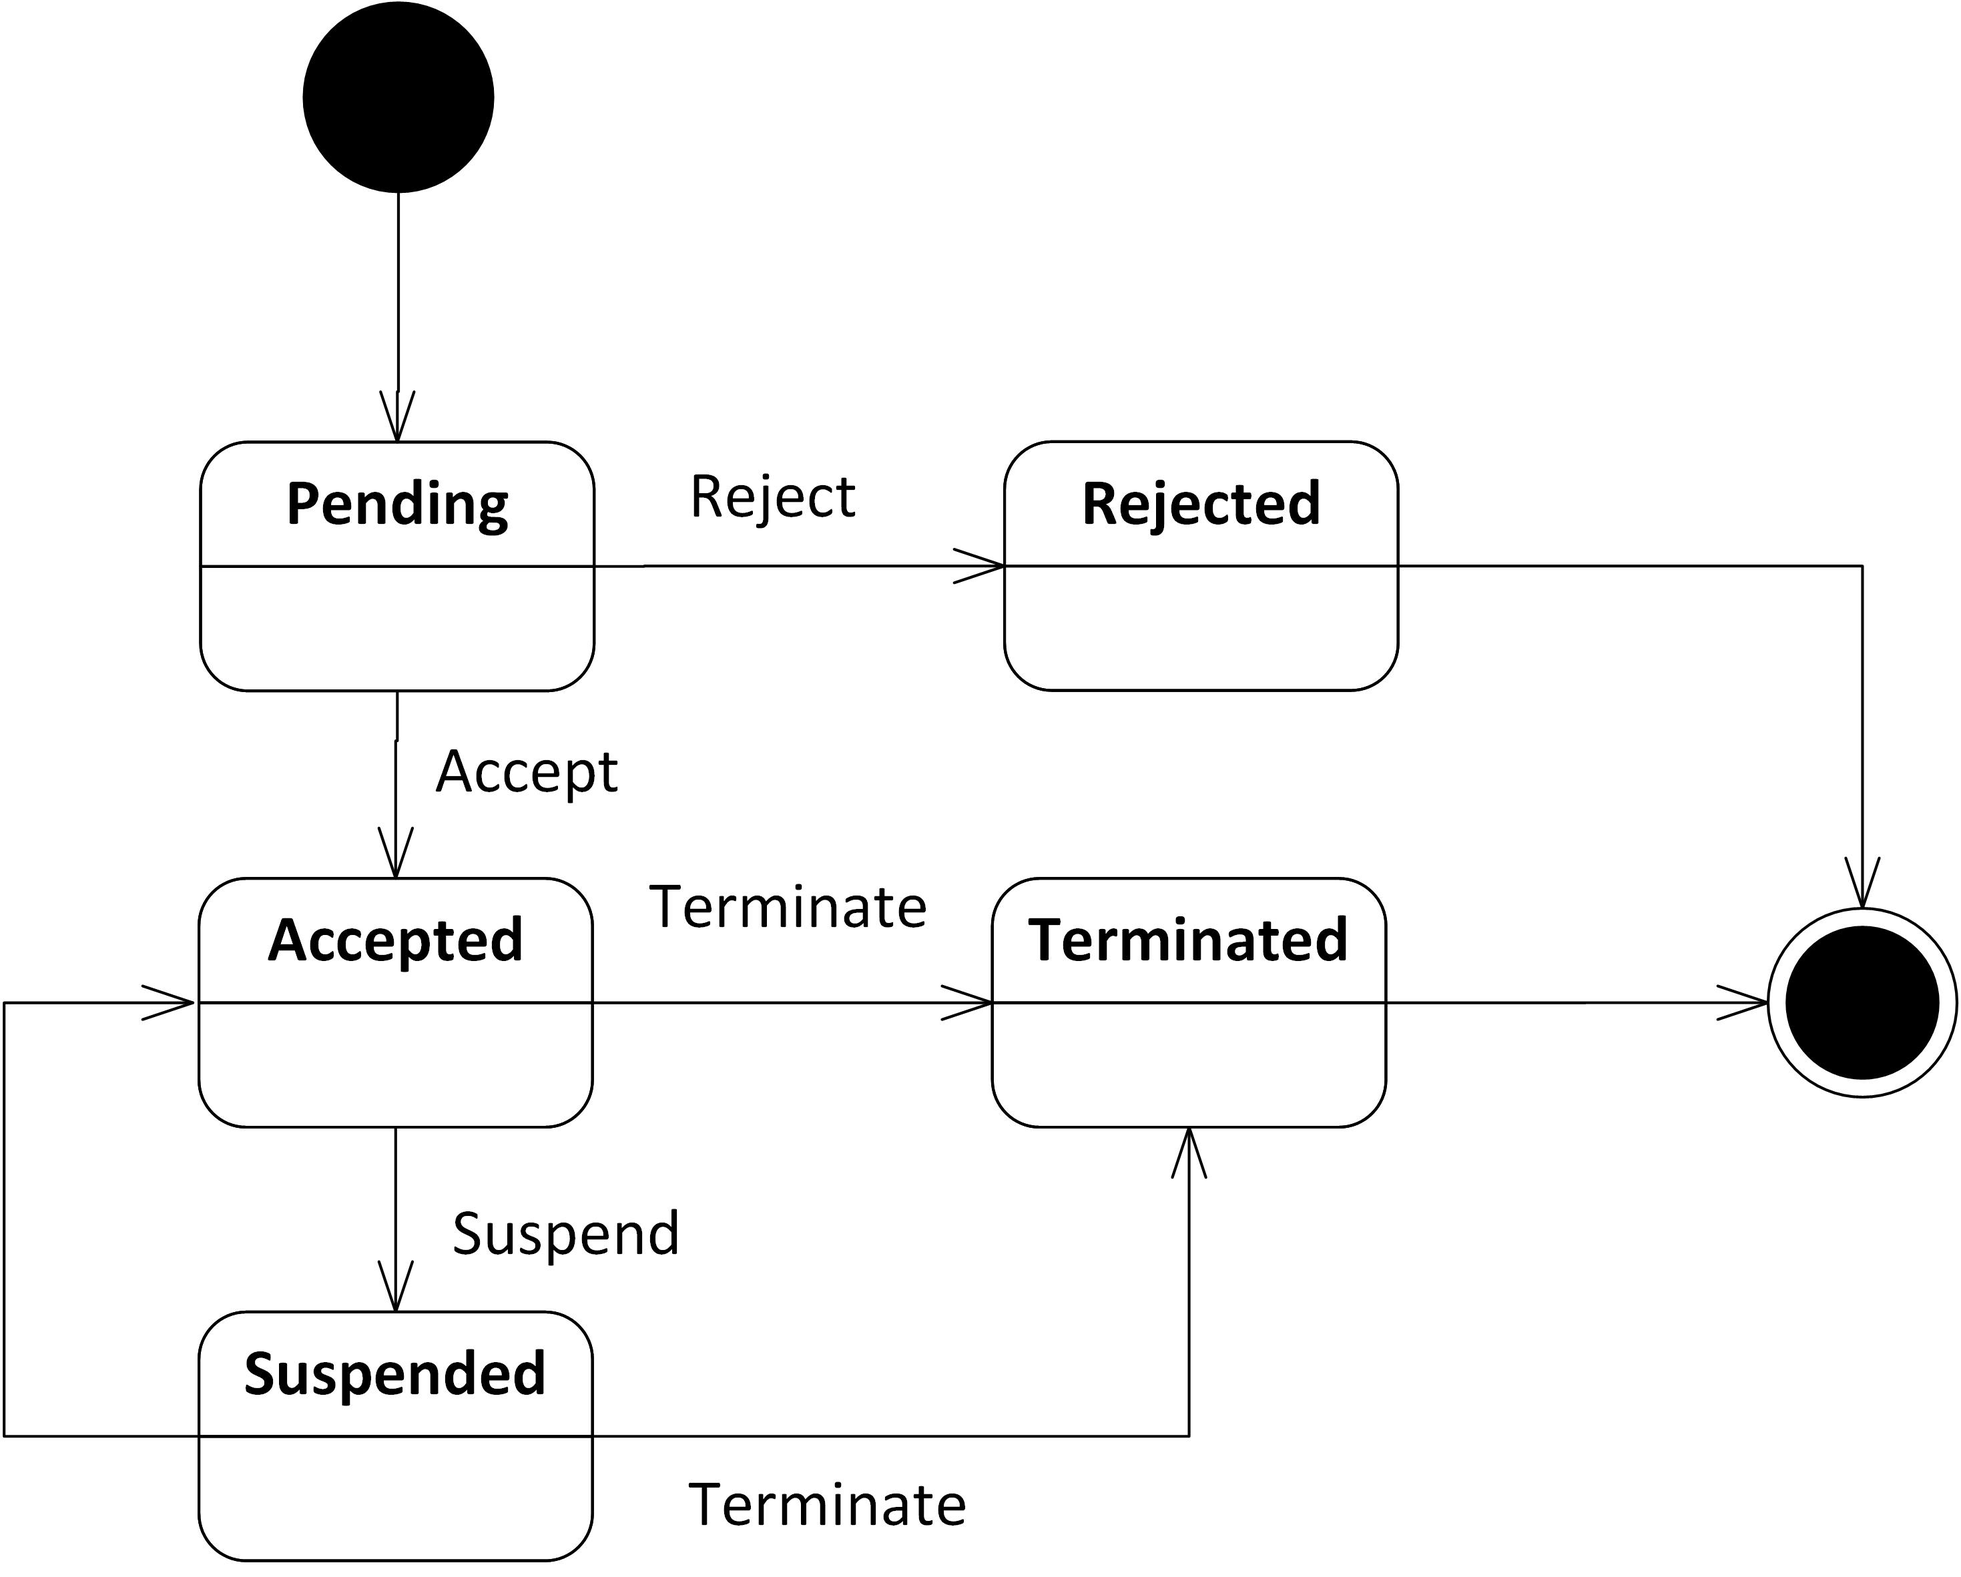
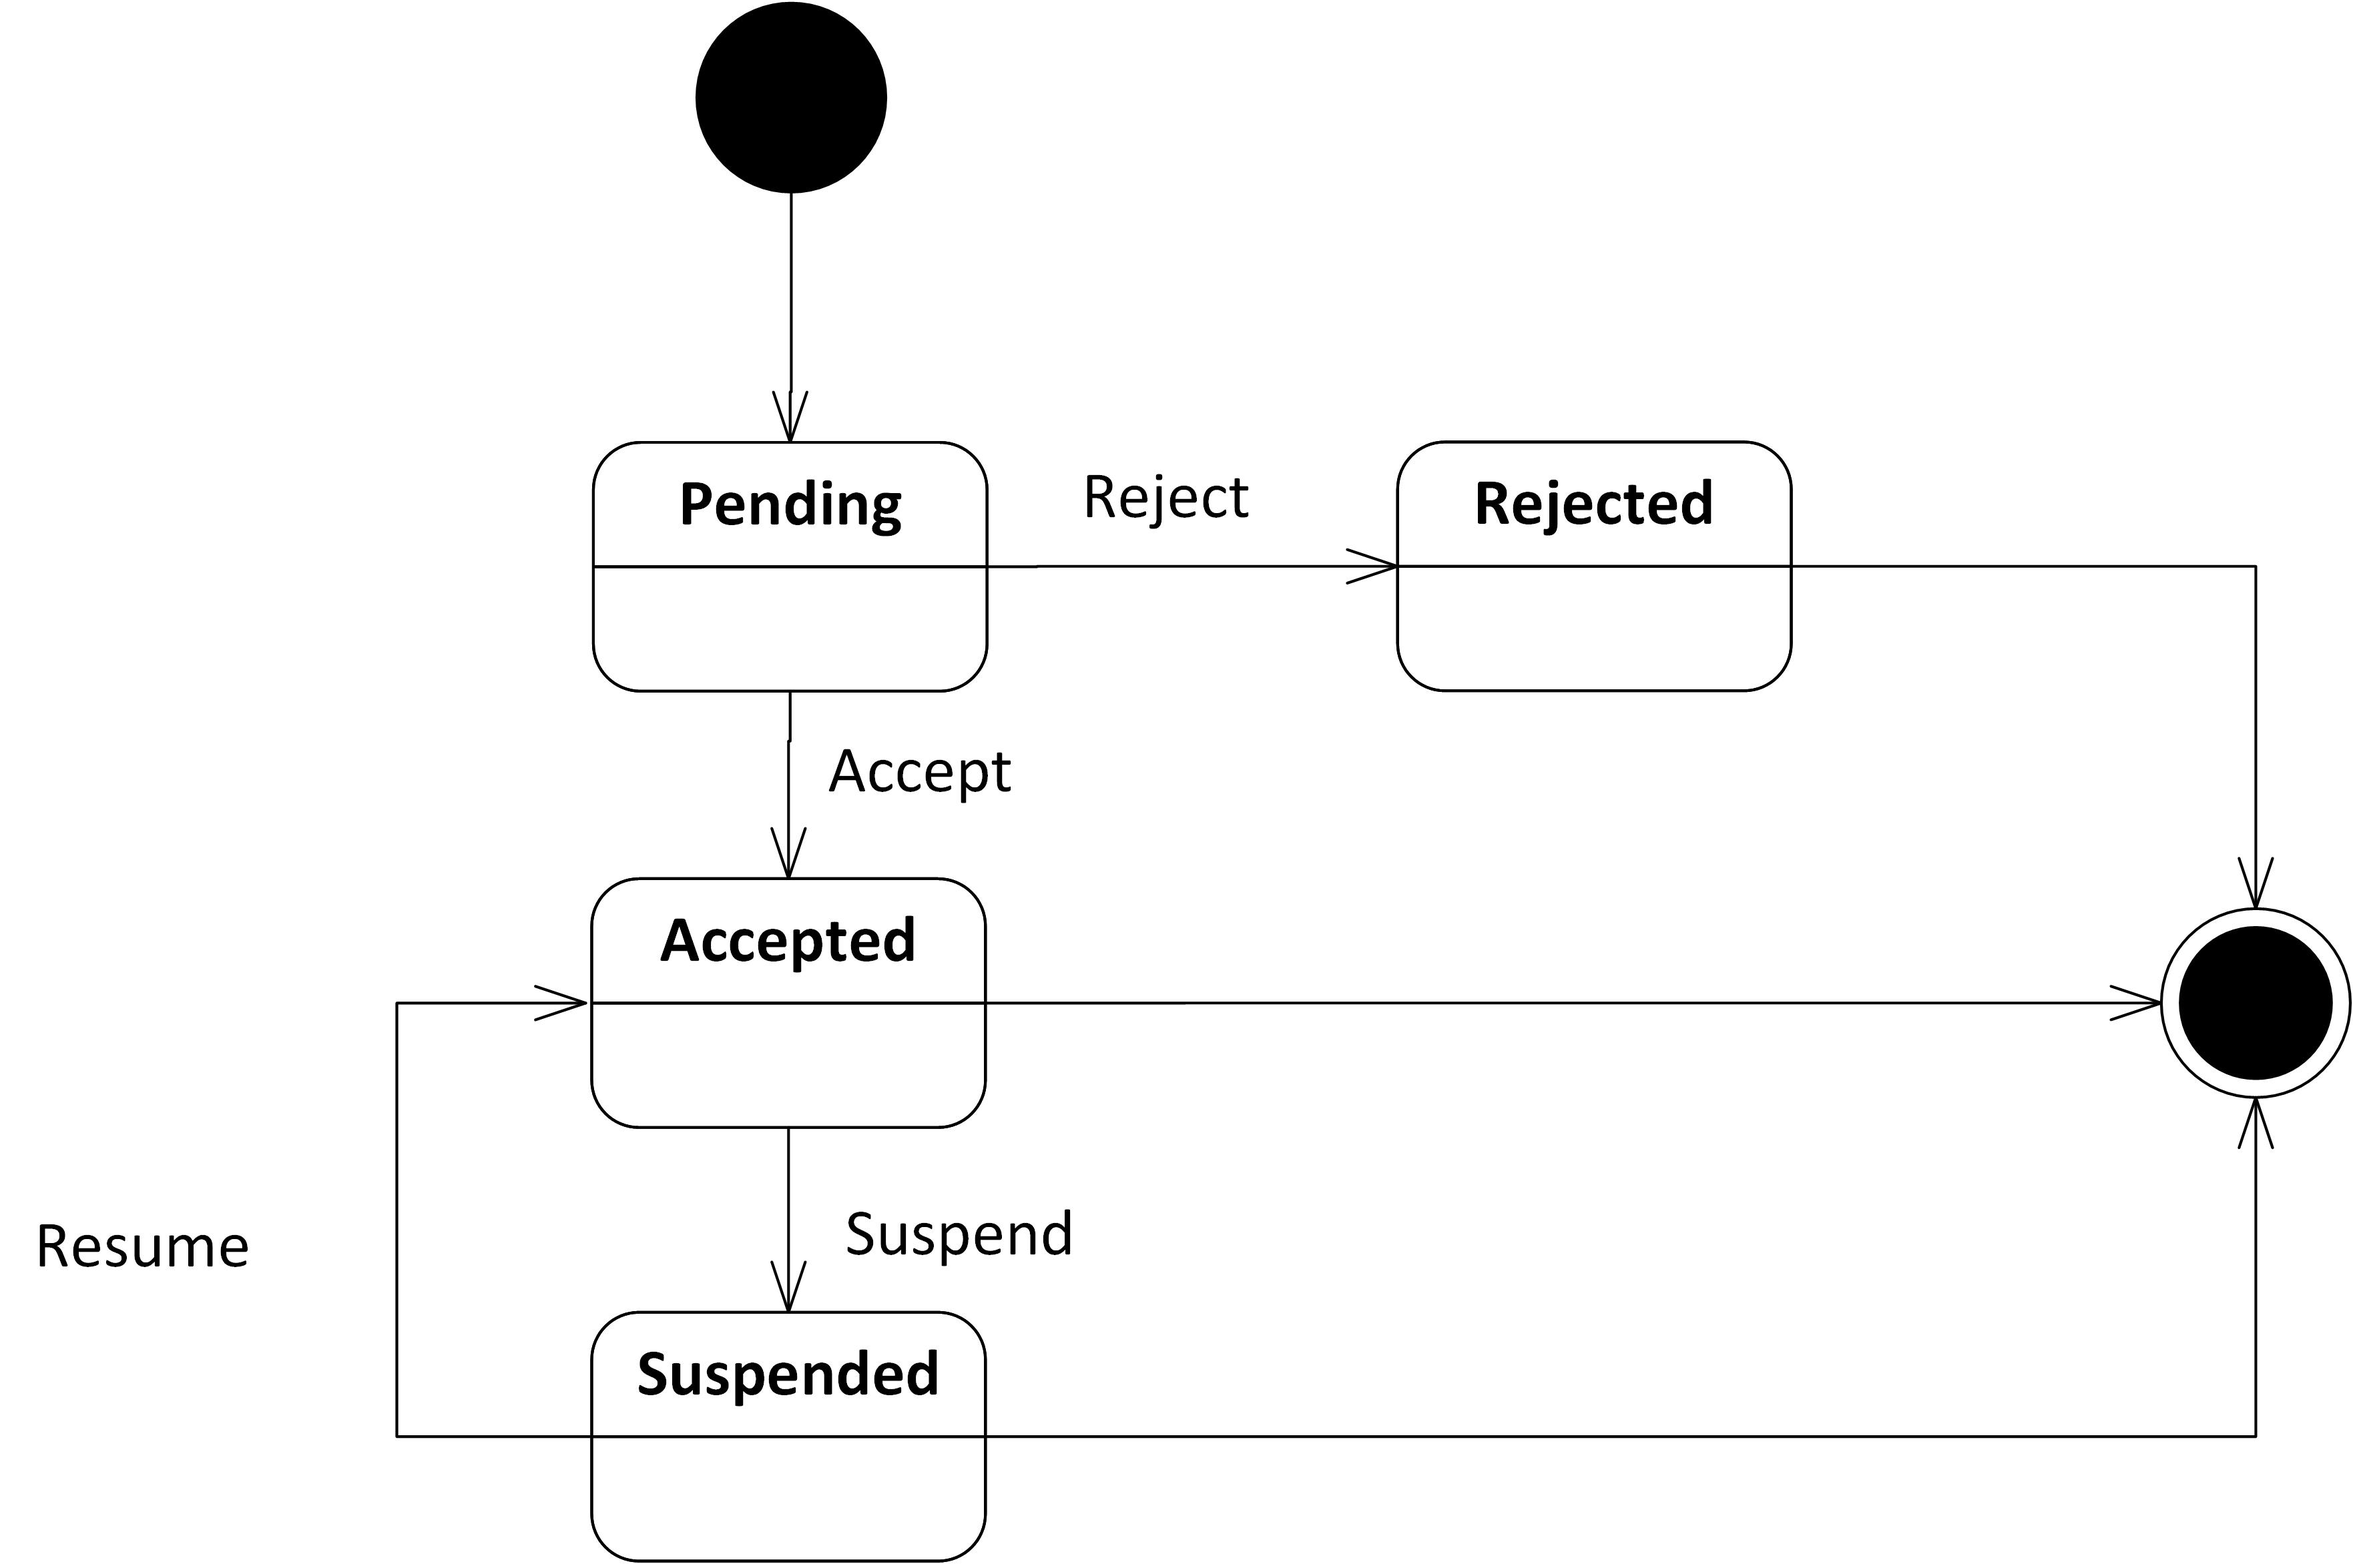
agreement-terms updates

diff --git a/occi-slas.tex b/occi-slas.tex
@@ -4,6 +4,8 @@
 \usepackage{graphicx}
 \usepackage{fancyhdr}
 \usepackage{occi}
+
+
 \setlength{\headheight}{13pt}
 \pagestyle{fancy}
 
@@ -155,7 +157,8 @@ The following sections describe the \hl{Agreement} and \hl{AgreementLink} types,
 
 The \hl{Agreement} type represents a generic contract resource which holds the information related to a SLA between a cloud service consumer and a provider for the provisioned resources (e.g. compute, storage, network etc.). The \hl{Agreement} type inherits the \hl{Resource} base-type defined in the OCCI Core Model \cite{occi:core}. The \hl{Kind} instance assigned to the \hl{Agreement} type is \textit{http://schemas.ogf.org/occi/sla\#agreement}. An \hl{Agreement} instance MUST relate and expose this \hl{Kind}.
 
-Table~\ref{tbl:agreement} describes the attributes defined by the \hl{Agreement} type through its \hl{Kind} instance. These attributes MUST be exposed by an instance of the \hl{Agreement} type. In Figure~\ref{fig:agreement-states} the allowed states of an \hl{Agreement} instance are presented. Those specific states MUST be assigned to an \hl{Agreement} instance by a cloud service provider SHOULD the implements the OCCI SLAs specification. 
+Table~\ref{tbl:agreement} describes the attributes defined by the \hl{Agreement} type through its \hl{Kind} instance. These attributes MUST be exposed by an instance of the \hl{Agreement} type. In Figure~\ref{fig:agreement-states} the allowed states of an \hl{Agreement} instance are presented. Those specific states MUST be assigned to an \hl{Agreement} instance by a cloud service provider SHOULD the implements the OCCI SLAs specification. The \hl{agreedAt}, \hl{effectiveFrom} and \hl{effectiveUntil} attributes MUST have an absolute datetime value (data, time or combined format) but MUST NOT represent a duration or time interval formated value.
+
 
 
 \mytablefloat{
@@ -198,7 +201,7 @@ The actions that are applicable to \hl{Agreement} instances are presented in Tab
 	accept & Accepted & -- \\
 	reject & Rejected & -- \\
 	suspend & Suspended & -- \\
-	unsuspend & Accepted & -- \\
+	resume & Accepted & -- \\
 	terminate & Terminated & -- \\
 	\botrule
 	\end{tabular}
@@ -220,31 +223,32 @@ As can be seen in the example diagram bellow, the \hl{AgreementTemplate} mixin c
 \end{figure}
 
 \subsubsection{AgreementTerm Mixin}
-A necessary part of an agreement offer, as well as the consequent agreement, is the section of the agreement term. To this end, the OCCI SLAs suggests the introduction of the agreement terms through the \hl{Mixin} mechanism. The \hl{AgreementTerm Mixin} is assigned the “scheme” \textit{http://schemas.ogf.org/occi/sla\#} and the term \hl{agreement\_term}. An \hl{AgreementTerm} mixin MUST support these values. OCCI SLAs implementations SHOULD support this in order to provide a classification and definition mechanism for the various terms and conditions of the agreements. Therefore, the implementation of this functionality is OPTIONAL but RECOMMENDED. 
+A necessary part of an agreement offer, as well as the consequent agreement, is the section of the agreement term. To this end, the OCCI SLAs introduces the agreement terms through the \hl{Mixin} mechanism. The \hl{AgreementTerm Mixin} is assigned the “scheme” \textit{http://schemas.ogf.org/occi/sla\#} and the term \hl{agreement\_term}. An \hl{AgreementTerm} mixin MUST support these values. OCCI SLAs implementations SHOULD support this in order to provide a classification and definition mechanism for the various terms and conditions of the agreements. Therefore, the implementation of this functionality is OPTIONAL but RECOMMENDED. 
 
-Table~\ref{tbl:terms-attributes} shows the defined attributes for the \hl{AgreementTerm Mixin}. Following the rationale presented in the WS-Agreement specification \cite{ws-agreeement:2007} , OCCI SLAs defines two types of agreement terms: service terms and service level objectives (SLOs). The first includes information related with the service description and definition. The second refers to the guarantee terms that specify the service level which the two parties are agreeing to. A cloud service provider MAY introduce domain specific attributes to the \hl{AgreementTerm} mixin instances that he constructs, through the attributes set inherited from the \hl{Category} type. \hl{Mixin} relationships MAY be used in order to enforce classification of capabilities but also to allow resource specific instantiation of \hl{AgreementTerm}. For example, an availability \hl{Mixin} could be defined, which is depended on the \hl{AgreementTerm Mixin} type. The provider, then, MAY choose to instantiate different availability mixins for compute or storage resources (or any other offered resource) based on his own definition of availability for those resources. 
+While the Agreement Term Mixin as defined does not include any generic attribute, a provider specific term (e.g. availability, compute service term etc.) SHOULD be depended from the OCCI SLAs \hl{AgreementTerm Mixin} and introduce a set of attributes that characterize those terms. In Table~\ref{tbl:terms-attributes} a list of attributes is presented that a provider MAY use for the definition of the custom terms mixins. Following the rationale presented in the WS-Agreement specification \cite{ws-agreeement:2007} , OCCI SLAs defines two types of agreement terms: service terms and service level objectives (SLOs). The first includes information related with the service description and definition. The second refers to the guarantee terms that specify the service level which the two parties are agreeing to. A cloud service provider MAY introduce more domain specific attributes to the \hl{AgreementTerm} mixin instances that he constructs, through the attributes set inherited from the \hl{Category} type. \hl{Mixin} relationships MAY be used in order to enforce classification of capabilities but also to allow resource specific instantiation of \hl{AgreementTerm}. For example, an availability \hl{Mixin} could be defined, which is depended on the \hl{AgreementTerm Mixin} type. The provider, then, MAY choose to instantiate different availability mixins for compute or storage resources (or any other offered resource) based on his own definition of availability for those resources. 
 
 
 
 \mytablefloat{
 	\label{tbl:terms-attributes}
-	\hl{Attributes} for the AgreementTerm Mixin. 
+	Suggested \hl{Attributes} for a provider-defined AgreementTerm Mixin. 
 }
 {
 	\begin{tabular}{lp{2.5cm}p{1cm}lp{6cm}}
 	\toprule
 	Attribute&Type&Multi\-plicity&Mutability&Description\\
 	\colrule
-	occi.agreement.term.type & Enum \{SERVICE-TERM,SLO, n/a\} & 1 & Mutable & The type of the term that is being defined.\\
-	occi.agreement.term.state & Enum \{Undefined,Fulfilled  Violated\} & 1 & Immutable & The state of fulfillment of the specific term. \\
-	occi.agreement.term.desc & String & 0\ldots1 & Mutable & The description of the agreement term defined with this mixin. \\
+	\{term\_name\}.term.type & Enum \{SERVICE-TERM,SLO-TERM, n/a\} & 1 & Immutable & The type of the term that is being defined.\\
+	\{term\_name\}.term.state & Enum \{Undefined, Fulfilled, Violated\} & 1 & Immutable & The state of fulfillment of the specific term. \\
+	\{term\_name\}.term.desc & String & 0\ldots1 & Immutable & The description of the agreement term defined with this mixin. \\
+	\{term\_name\}.term.remedy & String & 0\ldots1 & Immutable & The remedy value (e.g. price penalty) or action e.g. command) when an SLO term is being violated. \\
 	\botrule
 	\end{tabular}
 }
 
 
 
-The \hl{AgreementTerm} state can be either \textit{undefined}, \textit{fulfilled} or \textit{violated} (Figure~\ref{fig:terms-states}). The undefined state is the initial state of the term until an assessment is made. During runtime and while the service and SLA is being monitored the state MUST be fulfilled or violated. When multiple terms exist (e.g. provider specific terms) then if at least one term in an agreement has state violated, then the agreement is considered violated (\textit{occi.agreement.term.state=violated}).
+The \hl{AgreementTerm} state can be either \textit{undefined}, \textit{fulfilled} or \textit{violated} (Figure~\ref{fig:terms-states}). The undefined state is the initial state of the term until an assessment is made. During runtime and while the service and SLA is being monitored the state MUST be fulfilled or violated. When multiple terms exist (e.g. provider specific terms) then if at least one term in an agreement has state violated, then the agreement is considered violated (\textit{\{term\_name\}.term.state=violated}).
 
 \begin{figure}[!h]
 	{\centering \resizebox*{0.6\columnwidth}{!}{{\includegraphics{figs/terms-states.jpg}}} \par}
@@ -392,6 +396,8 @@ Name & Affiliation & Contact \\
 Gregory Katsaros & Intel & gregory.katsaros at intel.com \\
 Thijs Metsch & Intel & thijs.metsch at intel.com \\
 John Kennedy & Intel & john.m.kennedy at intel.com \\
+Alexander Stanik & TU Berlin & alexander.stanik at tu-berlin.de \\
+Wolfgang Ziegler & SCAI Fraunhofer & wolfgang.ziegler at scai.fraunhofer.de \\
 \end{tabular}
 
 Next to these individual contributions we value the contributions from the OCCI working group.
